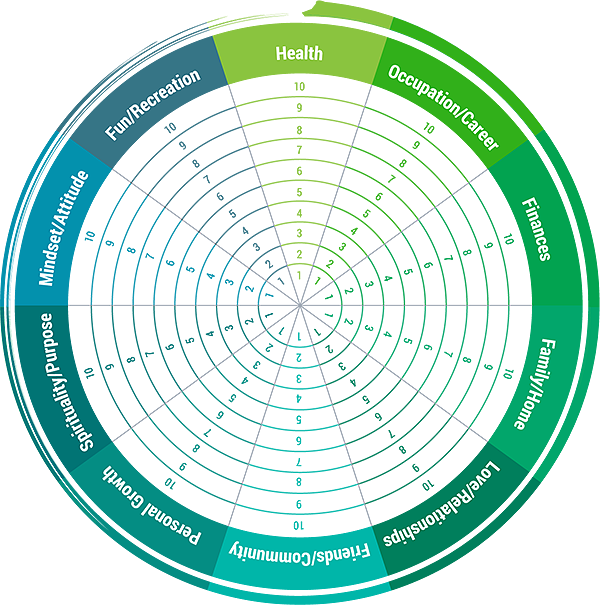
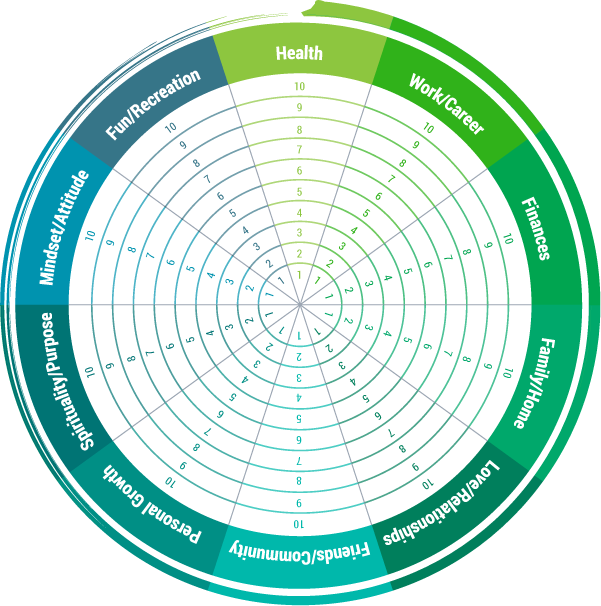
Updated wellbeing wheel image

diff --git a/wheel/index.html b/wheel/index.html
@@ -93,8 +93,8 @@
 		<div class="wrapper">
 			<canvas
 				id="wheel"
-				width="600"
-				height="605"
+				width="601"
+				height="606"
 				data-imgsrc="wheel.png"
 				onmousedown="point_it(event)"
 			>
